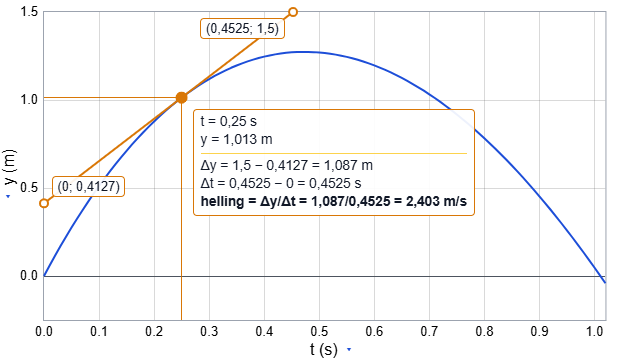
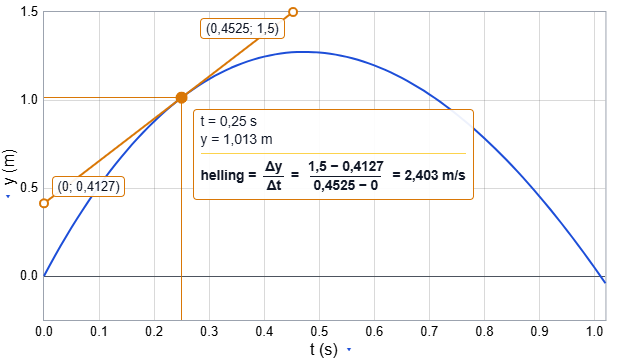
Helling als echte breuk: Δy/Δt ingevuld met de afgelezen punten
Het label toont helling = Δy/Δt = (y2 − y1)/(x2 − x1) = ... met
gestapelde breuken (teller boven de streep, noemer eronder), ingevuld met
de waarden van de twee eindpunten van de raaklijn. Screenshot en
DIDACTIEK.md bijgewerkt.

Changed region(s): [[0.3079, 0.3056, 0.7699, 0.6111]]

diff --git a/modelleertaal-app.js b/modelleertaal-app.js
@@ -2986,17 +2986,16 @@ ModelleertaalApp.prototype.tangent_text = function() {
   var dx = b[0] - a[0], dy = b[1] - a[1];
   function num(v) { return self.format_text(v).replace('-', '\u2212'); }
   function minus(v) { return (v < 0) ? '(' + num(v) + ')' : num(v); }
-  function unit(name) { return self.units[name] ? ' ' + self.units[name] : ''; }
-  function delta(name, v1, v2, d) {
-    return '\u0394' + name + ' = ' + num(v2) + ' \u2212 ' + minus(v1) + ' = ' + num(d) + unit(name);
-  }
+  function difference(v1, v2) { return num(v2) + ' − ' + minus(v1); }
   var slope_unit = aflezen.slope_unit(this.units[t.yvar], this.units[t.xvar]);
-  return [
-    {text: delta(t.yvar, a[1], b[1], dy), cls: 'read_calc read_first'},
-    {text: delta(t.xvar, a[0], b[0], dx), cls: 'read_calc'},
-    {text: 'helling = \u0394' + t.yvar + '/\u0394' + t.xvar + ' = ' + minus(dy) + '/' + minus(dx) + ' = ' +
-           num(dy / dx) + (slope_unit ? ' ' + slope_unit : ''), cls: 'read_calc read_result'}
-  ];
+  // helling = (delta y)/(delta x) = (y2 - y1)/(x2 - x1) = ..., as real fractions (show_read_label)
+  return [{cls: 'read_calc read_first read_result', parts: [
+    'helling = ',
+    {num: 'Δ' + t.yvar, den: 'Δ' + t.xvar},
+    ' = ',
+    {num: difference(a[1], b[1]), den: difference(a[0], b[0])},
+    ' = ' + num(dy / dx) + (slope_unit ? ' ' + slope_unit : '')
+  ]}];
 };
 
 
@@ -3034,7 +3033,21 @@ ModelleertaalApp.prototype.show_read_label = function(text) {
   var label = $('<div class="read_label">').appendTo(graph);
   text.forEach(function(line) {
     if (typeof line == 'string') line = {text: line};
-    label.append($('<div>').addClass(line.cls || '').text(line.text));
+    var div = $('<div>').addClass(line.cls || '').appendTo(label);
+    if (!line.parts) {
+      div.text(line.text);
+      return;
+    }
+    // text and fractions {num, den}
+    line.parts.forEach(function(part) {
+      if (typeof part == 'string') {
+        div.append($('<span>').text(part));
+      } else {
+        div.append($('<span class="frac">')
+          .append($('<span class="frac_num">').text(part.num))
+          .append($('<span class="frac_den">').text(part.den)));
+      }
+    });
   });
   // a click on the tangent: the values at both ends, next to the ends
   var t = this.read_tangent;

diff --git a/index.html b/index.html
@@ -776,6 +776,26 @@
 
         .read_label .read_result {
             font-weight: 600;
+            display: flex;
+            align-items: center;
+            white-space: pre;
+        }
+
+        /* een breuk: teller boven de streep, noemer eronder */
+        .read_label .frac {
+            display: inline-flex;
+            flex-direction: column;
+            align-items: center;
+            margin: 1px 2px;
+        }
+
+        .read_label .frac_num {
+            padding: 0 3px;
+        }
+
+        .read_label .frac_den {
+            padding: 0 3px;
+            border-top: 1px solid #111827;
         }
 
         .read_label.read_end {

diff --git a/DIDACTIEK.md b/DIDACTIEK.md
@@ -122,13 +122,10 @@ het antwoord:
    ![Een punt aangeklikt: de raaklijn loopt tot aan de assen](images/raaklijn-punt.png)
 
 2. **Klik op de raaklijn:** de twee snijpunten met de assen (of de rand) krijgen een open rondje met hun
-   waarden, en het label rekent de helling uit, met eenheden, zoals een leerling het opschrijft:
+   waarden, en het label rekent de helling uit zoals een leerling het opschrijft: als **echte breuk**
+   Δy/Δt, met in de teller en de noemer de afgelezen waarden van de twee punten:
 
-   ```
-   Δy = 1,5 − 0,4127 = 1,087 m
-   Δt = 0,4525 − 0 = 0,4525 s
-   helling = Δy/Δt = 1,087/0,4525 = 2,403 m/s
-   ```
+   $$\text{helling} = \frac{\Delta y}{\Delta t} = \frac{1{,}5 - 0{,}4127}{0{,}4525 - 0} = 2{,}403\ \text{m/s}$$
 
    ![Op de raaklijn geklikt: de snijpunten met de assen en de helling uit Δy/Δt](images/raaklijn-helling.png)
 
@@ -144,8 +141,12 @@ Waarom zo:
   een "mooie" waarde (`t = 0`, `y = 0`).
 - **Eerst zelf, dan controleren.** De berekening komt pas na een tweede klik. Zonder die klik ziet de
   leerling alleen de raaklijn, net als in een examenopgave.
-- **Eenheden in de berekening.** Bij Δy en Δx staat de eenheid, bij de helling de samengestelde eenheid
-  (`m/s`, `(m/s)/s`): de eenheid van de helling volgt uit de eenheden op de assen.
+- **Een echte breuk, ingevuld.** Δy/Δx staat als breuk, met eronder dezelfde breuk met de afgelezen
+  getallen in teller en noemer (`1,5 − 0,4127` boven de streep, `0,4525 − 0` eronder). Zo zie je welk
+  punt waar in de formule komt, en de breuk ziet eruit als op papier, niet als een schuine streep van een
+  rekenmachine.
+- **De eenheid bij de helling.** Achter de uitkomst staat de samengestelde eenheid (`m/s`, `(m/s)/s`):
+  de eenheid van de helling volgt uit de eenheden op de assen.
 
 De raaklijn zelf is de lijn door het punt met de helling uit de punten ervoor en erna (centraal verschil).
 De raaklijn verandert de assen niet: hij wordt getekend in de grafiek zoals die al was, ook als je

diff --git a/CHANGELOG.md b/CHANGELOG.md
@@ -28,8 +28,9 @@
 - With one graph the tangent at that point is drawn up to the axes (or the edge of the graph),
   through the whole graph, without changing the axes. The slope comes from the points before
   and after. A click on the tangent shows its two ends (where it crosses the axes) with their
-  values, and the label calculates the slope from them, with units: `Δy = ...`, `Δt = ...`,
-  `helling = Δy/Δt = 1,087/0,4525 = 2,403 m/s`. Another click hides it. Before that click the
+  values, and the label calculates the slope from them as real (stacked) fractions:
+  helling = Δy/Δt = (1,5 − 0,4127)/(0,4525 − 0) = 2,403 m/s, with the values read off the
+  tangent in the numerator and denominator. Another click hides it. Before that click the
   label only says "klik op de raaklijn voor de helling". New module `aflezen.js` (with tests).
   See DIDACTIEK.md, with screenshots made by `tools/screenshots.mjs`.
 - The table keeps the number of rows shown when it is drawn again.

diff --git a/README.md b/README.md
@@ -37,7 +37,7 @@ staat in **[DIDACTIEK.md](DIDACTIEK.md)**.
 - **Grafieken aflezen.** Klik op een punt in de grafiek: een stip met hulplijnen naar beide assen, zoals je op
   papier afleest, en de rij in de tabel licht op (en andersom: klik op een rij). Bij één grafiek tekent de
   webapp ook de raaklijn, tot aan de assen. Klik op de raaklijn: de snijpunten met de assen worden afgelezen en
-  de helling volgt uit Δy/Δx (`helling = Δy/Δt = 1,087/0,4525 = 2,403 m/s`): zo bepaal je bijvoorbeeld de
+  de helling volgt uit de breuk Δy/Δx, ingevuld met die punten (`(1,5 − 0,4127)/(0,4525 − 0) = 2,403 m/s`): zo bepaal je bijvoorbeeld de
   versnelling uit het (v,t)-diagram. Zie [DIDACTIEK.md](DIDACTIEK.md).
 - **Eenheden.** Schrijf een eenheid tussen rechte haken in het commentaar achter een startwaarde
   (`v = 0 '[m/s]`) en hij staat op de assen (`v (m/s)`), in de tabel en in de downloads.
